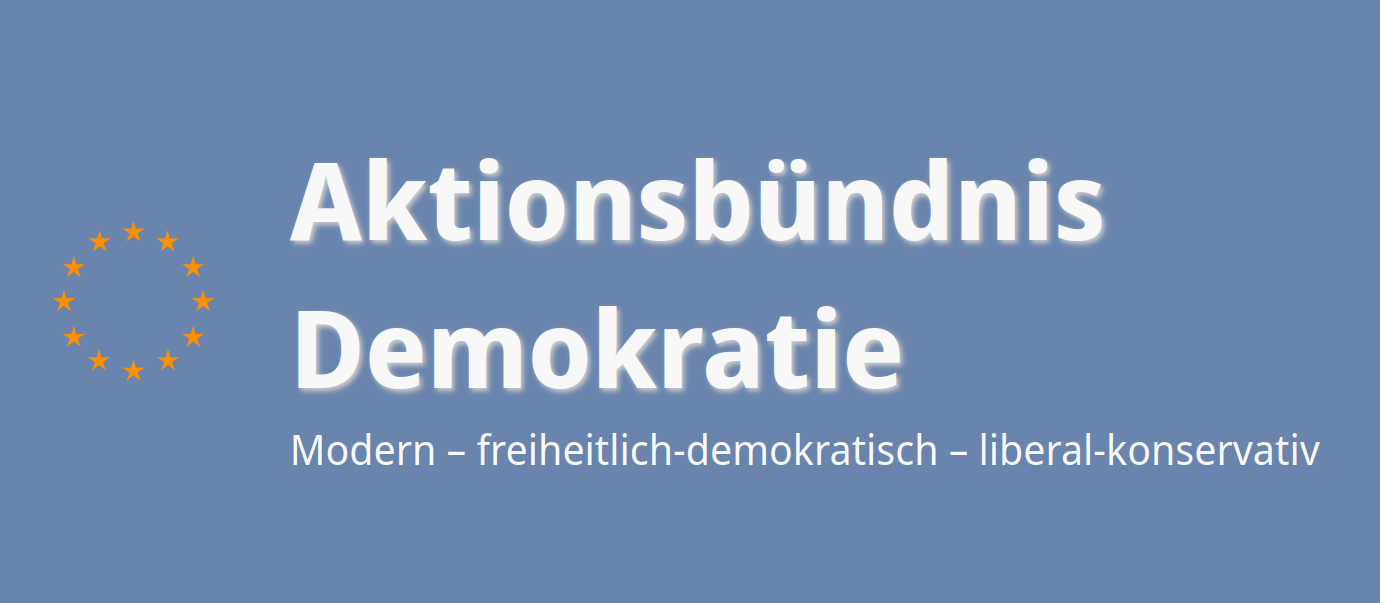
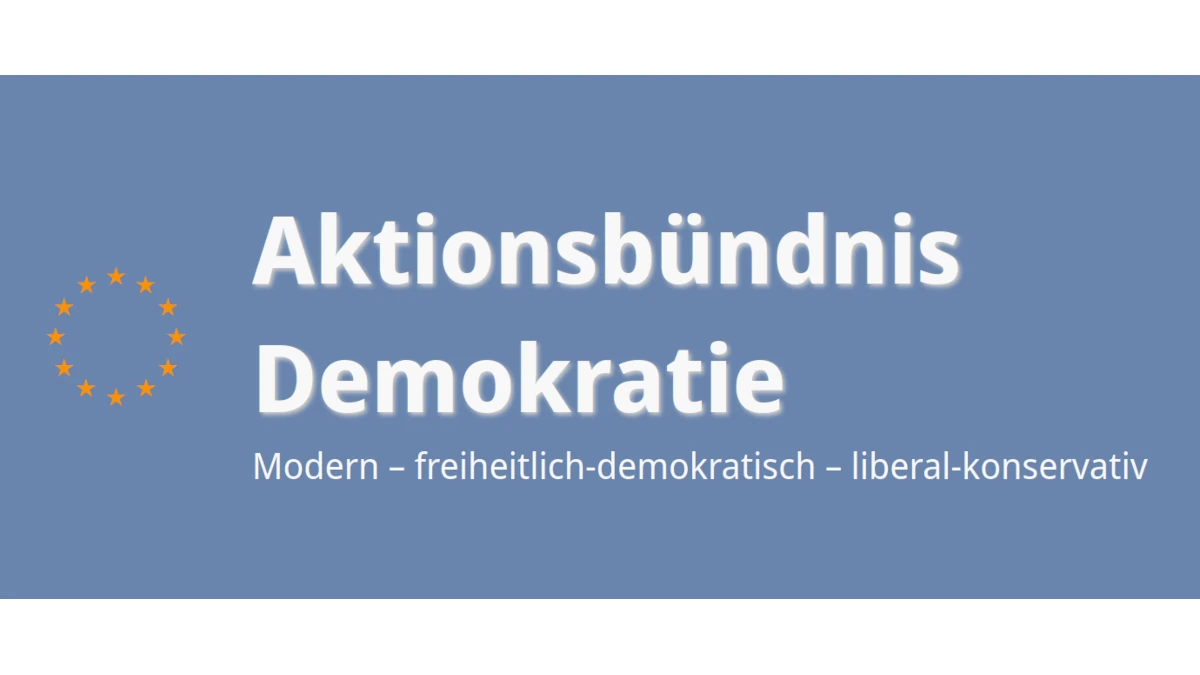
Ups, og:image muss ein absoluter URL sein – korrigiert

diff --git a/public_html/aussenpolitik.html b/public_html/aussenpolitik.html
@@ -1,15 +1,21 @@
 <!DOCTYPE html>
 
 <head>
-     <title>Aktionsbündnis Demokratie</title>
     <meta charset="UTF-8">
-    <link rel="stylesheet" type="text/css" href="styles.css" />
-    <script src="script.js"> </script>
+    <title>Aktionsbündnis Demokratie</title>
+    <meta name="description" content="Setzen Sie sich mit dem Aktionsbündnis Demokratie für eine lebendige und engagierte Demokratie in Europa ein.">
+    <link rel="stylesheet" type="text/css" href="styles.css">
+    <script src="script.js"></script>
     <meta name="viewport" content="width=device-width, initial-scale=1.0">
+    <link rel="apple-touch-icon" sizes="180x180" href="./favicon/apple-touch-icon.png">
+    <link rel="icon" type="image/png" sizes="32x32" href="./favicon/favicon-32x32.png">
+    <link rel="icon" type="image/png" sizes="16x16" href="./favicon/favicon-16x16.png">
+    <meta property="og:title" content="Aktionsbündnis Demokratie">
+    <meta property="og:description" content="Setzen Sie sich mit dem Aktionsbündnis Demokratie für eine lebendige und engagierte Demokratie in Europa ein.">
+    <meta property="og:image" content="https://aktionsbuendnis-demokratie.de/images/vorschau.webp">
+    <meta property="og:image:width" content="1380">
+    <meta property="og:image:height" content="603">
 </head>
-
-
-<!-- Headder-->
 
 <body>
     <div class="containerwrapper">

diff --git a/public_html/datenschutzerklaerung.html b/public_html/datenschutzerklaerung.html
@@ -1,18 +1,22 @@
 <!DOCTYPE html>
 <html lang="de">
+
 <head>
     <meta charset="UTF-8">
-    < <title>Aktionsbündnis Demokratie</title>
+    <title>Aktionsbündnis Demokratie</title>
     <meta name="description" content="Setzen Sie sich mit dem Aktionsbündnis Demokratie für eine lebendige und engagierte Demokratie in Europa ein.">
     <link rel="stylesheet" type="text/css" href="styles.css">
     <script src="script.js"></script>
     <meta name="viewport" content="width=device-width, initial-scale=1.0">
-    <link rel="icon" href="favicon.ico" type="image/vnd.microsoft.icon">
+    <link rel="apple-touch-icon" sizes="180x180" href="./favicon/apple-touch-icon.png">
+    <link rel="icon" type="image/png" sizes="32x32" href="./favicon/favicon-32x32.png">
+    <link rel="icon" type="image/png" sizes="16x16" href="./favicon/favicon-16x16.png">
+    <meta property="og:title" content="Aktionsbündnis Demokratie">
+    <meta property="og:description" content="Setzen Sie sich mit dem Aktionsbündnis Demokratie für eine lebendige und engagierte Demokratie in Europa ein.">
+    <meta property="og:image" content="https://aktionsbuendnis-demokratie.de/images/vorschau.webp">
+    <meta property="og:image:width" content="1380">
+    <meta property="og:image:height" content="603">
 </head>
-
-
-
-
 
 <body>
     <div class="containerwrapper">

diff --git a/public_html/einblicke.html b/public_html/einblicke.html
@@ -12,7 +12,7 @@
     <link rel="icon" type="image/png" sizes="16x16" href="./favicon/favicon-16x16.png">
     <meta property="og:title" content="Aktionsbündnis Demokratie">
     <meta property="og:description" content="Setzen Sie sich mit dem Aktionsbündnis Demokratie für eine lebendige und engagierte Demokratie in Europa ein.">
-    <meta property="og:image" content="./images/vorschau.webp">
+    <meta property="og:image" content="https://aktionsbuendnis-demokratie.de/images/vorschau.webp">
     <meta property="og:image:width" content="1380">
     <meta property="og:image:height" content="603">
 </head>

diff --git a/public_html/impressum.html b/public_html/impressum.html
@@ -12,7 +12,7 @@
     <link rel="icon" type="image/png" sizes="16x16" href="./favicon/favicon-16x16.png">
     <meta property="og:title" content="Aktionsbündnis Demokratie">
     <meta property="og:description" content="Setzen Sie sich mit dem Aktionsbündnis Demokratie für eine lebendige und engagierte Demokratie in Europa ein.">
-    <meta property="og:image" content="./images/vorschau.webp">
+    <meta property="og:image" content="https://aktionsbuendnis-demokratie.de/images/vorschau.webp">
     <meta property="og:image:width" content="1380">
     <meta property="og:image:height" content="603">
 </head>

diff --git a/public_html/index.html b/public_html/index.html
@@ -12,7 +12,7 @@
     <link rel="icon" type="image/png" sizes="16x16" href="./favicon/favicon-16x16.png">
     <meta property="og:title" content="Aktionsbündnis Demokratie">
     <meta property="og:description" content="Setzen Sie sich mit dem Aktionsbündnis Demokratie für eine lebendige und engagierte Demokratie in Europa ein.">
-    <meta property="og:image" content="./images/vorschau.webp">
+    <meta property="og:image" content="https://aktionsbuendnis-demokratie.de/images/vorschau.webp">
     <meta property="og:image:width" content="1380">
     <meta property="og:image:height" content="603">
 </head>

diff --git a/public_html/industriepolitik.html b/public_html/industriepolitik.html
@@ -12,7 +12,7 @@
     <link rel="icon" type="image/png" sizes="16x16" href="./favicon/favicon-16x16.png">
     <meta property="og:title" content="Aktionsbündnis Demokratie">
     <meta property="og:description" content="Setzen Sie sich mit dem Aktionsbündnis Demokratie für eine lebendige und engagierte Demokratie in Europa ein.">
-    <meta property="og:image" content="./images/vorschau.webp">
+    <meta property="og:image" content="https://aktionsbuendnis-demokratie.de/images/vorschau.webp">
     <meta property="og:image:width" content="1380">
     <meta property="og:image:height" content="603">
 </head>

diff --git a/public_html/kontakt.html b/public_html/kontakt.html
@@ -12,7 +12,7 @@
     <link rel="icon" type="image/png" sizes="16x16" href="./favicon/favicon-16x16.png">
     <meta property="og:title" content="Aktionsbündnis Demokratie">
     <meta property="og:description" content="Setzen Sie sich mit dem Aktionsbündnis Demokratie für eine lebendige und engagierte Demokratie in Europa ein.">
-    <meta property="og:image" content="./images/vorschau.webp">
+    <meta property="og:image" content="https://aktionsbuendnis-demokratie.de/images/vorschau.webp">
     <meta property="og:image:width" content="1380">
     <meta property="og:image:height" content="603">
 </head>

diff --git a/public_html/kontaktformular.html b/public_html/kontaktformular.html
@@ -12,7 +12,7 @@
     <link rel="icon" type="image/png" sizes="16x16" href="./favicon/favicon-16x16.png">
     <meta property="og:title" content="Aktionsbündnis Demokratie">
     <meta property="og:description" content="Setzen Sie sich mit dem Aktionsbündnis Demokratie für eine lebendige und engagierte Demokratie in Europa ein.">
-    <meta property="og:image" content="./images/vorschau.webp">
+    <meta property="og:image" content="https://aktionsbuendnis-demokratie.de/images/vorschau.webp">
     <meta property="og:image:width" content="1380">
     <meta property="og:image:height" content="603">
 </head>

diff --git a/public_html/spenden.html b/public_html/spenden.html
@@ -12,7 +12,7 @@
     <link rel="icon" type="image/png" sizes="16x16" href="./favicon/favicon-16x16.png">
     <meta property="og:title" content="Aktionsbündnis Demokratie">
     <meta property="og:description" content="Setzen Sie sich mit dem Aktionsbündnis Demokratie für eine lebendige und engagierte Demokratie in Europa ein.">
-    <meta property="og:image" content="./images/vorschau.webp">
+    <meta property="og:image" content="https://aktionsbuendnis-demokratie.de/images/vorschau.webp">
     <meta property="og:image:width" content="1380">
     <meta property="og:image:height" content="603">
 </head>

diff --git a/public_html/unterschriftenkampagne.html b/public_html/unterschriftenkampagne.html
@@ -12,7 +12,7 @@
     <link rel="icon" type="image/png" sizes="16x16" href="./favicon/favicon-16x16.png">
     <meta property="og:title" content="Aktionsbündnis Demokratie">
     <meta property="og:description" content="Setzen Sie sich mit dem Aktionsbündnis Demokratie für eine lebendige und engagierte Demokratie in Europa ein.">
-    <meta property="og:image" content="./images/vorschau.webp">
+    <meta property="og:image" content="https://aktionsbuendnis-demokratie.de/images/vorschau.webp">
     <meta property="og:image:width" content="1380">
     <meta property="og:image:height" content="603">
 </head>
